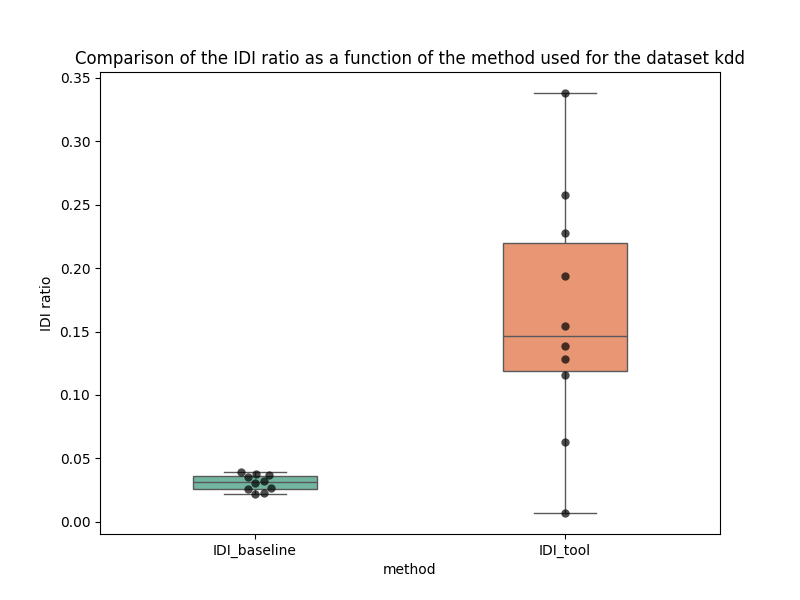
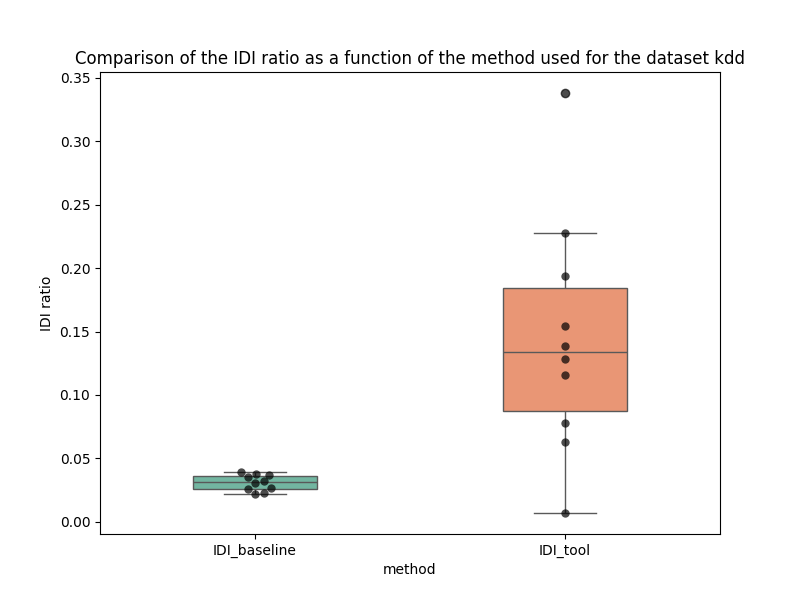
add final details

Changed region(s): [[0.625, 0.15, 0.8125, 0.51], [0.625, 0.54, 0.8125, 0.72]]

diff --git a/decision_tree.py b/decision_tree.py
@@ -7,54 +7,63 @@ from sklearn.model_selection import train_test_split
 from tensorflow import keras
 from sklearn.tree import DecisionTreeClassifier
 
-# Modify samples
-def modify_training_samples(row, X_test, non_sensitive_columns):
-    for col in non_sensitive_columns:
-        if col in X_test.columns:  # Ensure the column exists
-            min_val = X_test[col].min()
-            max_val = X_test[col].max()
-            perturbation = np.random.uniform(-0.1 * (max_val - min_val), 0.1 * (max_val - min_val))  # Small perturbation
-            row[col] = np.clip(row[col] + perturbation, min_val, max_val)
-    return row
 
-# Draw some random samples (must be higher than num_samples) and slightly modify them
+# Draw some random samples and predict them
 def draw_samples(model, X_test, sensitive_columns, non_sensitive_columns, num_samples, num_training):
-  # Prendre à peu près 1 quart du set
-  df_random = X_test.sample(n=int(num_training), replace=True) # num_samples*6
+  # Take num_training samples from X_text
+  df_random = X_test.sample(n=int(num_training), replace=True)
   df_random = df_random.reset_index(drop=True)
-  # Apply perturbation on non sensitive columns
-  # df_random = df_random.apply(lambda row: modify_training_samples(row, X_test, non_sensitive_columns), axis=1)
-  # Prédit tous les tests
+
+  # Predict them
   prediction = pd.DataFrame(model.predict(np.array(df_random)), index=df_random.index, columns=['prediction'])
   return df_random, prediction
 
+# Preselect the inputs that go through sensitive nodes
 def preselection(tree, X_test, sensitive_columns):
+    # Take decision path for each of the inputs
     decision_path = tree.decision_path(X_test)
 
+    # Extract which node is sensitive
     sensitive_indices = [X_test.columns.get_loc(col) for col in sensitive_columns]
-
     sensitive_nodes = np.where(np.isin(tree.tree_.feature, sensitive_indices))[0]
 
     # Find samples passing through these nodes
     selected_samples = pd.DataFrame(columns=X_test.columns)
-    for i in range(len(X_test)):  # Loop through samples
+    for i in range(len(X_test)): 
         path_nodes = decision_path.indices[decision_path.indptr[i]:decision_path.indptr[i+1]]
         sensible = [node for node in path_nodes if node in sensitive_nodes]
-        if sensible != []:# all(node in path_nodes for node in sensitive_nodes):
+        if sensible != []:
             selected_samples.loc[len(selected_samples)] = X_test.iloc[i]
 
     return selected_samples
 
+# Modify slightly the samples
+def modify_samples(row, X_test, non_sensitive_columns):
+    for col in non_sensitive_columns:
+        if col in X_test.columns:
+            min = X_test[col].min()
+            max = X_test[col].max()
+            modification = np.random.uniform(-0.1 * (max - min), 0.1 * (max - min))
+            row[col] = np.clip(row[col] + modification, min, max)
+    return row
+
+# Search for discriminatory pairs in the decision tree
 def find_random_discrimination(tree, X_test, sensitive_columns, non_sensitive_columns, num_samples):
-    sample = X_test.sample(n=num_samples, replace=True) # X_test.iloc[np.random.choice(len(X_test))]
+    # Sample some input
+    sample = X_test.sample(n=num_samples, replace=True)
 
-    sample = sample.apply(lambda row: modify_training_samples(row, X_test, non_sensitive_columns), axis=1)
+    # Slightly modify them
+    sample = sample.apply(lambda row: modify_samples(row, X_test, non_sensitive_columns), axis=1)
 
+    # Extract the decision path for each sample
     decision_path = tree.decision_path(sample)
 
+    # Needed information
     columns = X_test.columns
     df_path = pd.DataFrame(columns=['sample_a', 'sample_b'])
+
     for i in range(len(sample)):
+        # needed information
         sample_a = sample.iloc[i]
         borne = pd.DataFrame({
             'max' : [X_test[col].max() for col in sensitive_columns],
@@ -62,65 +71,68 @@ def find_random_discrimination(tree, X_test, sensitive_columns, non_sensitive_co
             }, index=sensitive_columns)
         node_indices = decision_path.indices[decision_path.indptr[i]:decision_path.indptr[i+1]]
 
+        # Extract sensitive nodes
         sensible_nodes = [(columns[tree.tree_.feature[node]], tree.tree_.threshold[node]) for node in node_indices if columns[tree.tree_.feature[node]] in sensitive_columns]
         
+        # Check if there is sensible nodes
         if sensible_nodes != []:
             for feature_name, threshold in sensible_nodes:
                 if sample_a[feature_name] <= threshold:
+                    # Pick a new value
                     new_value = random.uniform(threshold, borne.loc[feature_name, 'max'])
+
+                    # Change the value for the modified sample
                     sample_b = sample_a.copy()
                     sample_b[feature_name] = new_value
+
+                    # Predict the class of each sample thanks to the decision tree
                     dt = pd.concat([sample_a, sample_b], axis=1).T
                     pred = tree.predict(dt)
+
+                    # Register them if the classes are not the same
                     if pred[0] != pred[1]:
                         series = pd.Series({'sample_a':sample_a, 'sample_b':sample_b})
                         df_path = pd.concat([df_path, series.to_frame().T], ignore_index= True)
                     borne.loc[feature_name, 'max'] = threshold
                 else:
+                    # Pick a new value
                     new_value = random.uniform(threshold, borne.loc[feature_name, 'min'])
+
+                    # Change the value for the modified sample
                     sample_b = sample_a.copy()
                     sample_b[feature_name] = new_value
+
+                    # Predict the class of each sample thanks to the decision tree
                     dt = pd.concat([sample_a, sample_b], axis=1).T
                     pred = tree.predict(dt)
+
+                    # Register them if the classes are not the same
                     if pred[0] != pred[1]:
                         series = pd.Series({'sample_a':sample_a, 'sample_b':sample_b})
                         df_path = pd.concat([df_path, series.to_frame().T], ignore_index= True)
                     borne.loc[feature_name, 'min'] = threshold
     return df_path
-    
-def collect_sample(row):
-    return row['sample'].copy()
 
-def modify_sample(row):
-    sample = row['sample'].copy()
-    col = row['feature_name']
-    first_threshold, second_threshold = row['first_threshold'], row['second_threshold']
-    new_value = random.uniform(first_threshold, second_threshold)
-    sample[col] = new_value
-    return sample
 
 # Calculate the IDI ratio
 def calculate_idi_ratio_tool(model, X_test, sensitive_columns, non_sensitive_columns, num_samples=1000, threshold=0.05, num_training=8000):
     # Draw sample
     df_random, prediction = draw_samples(model, X_test, sensitive_columns, non_sensitive_columns, num_samples, num_training)
+    # Predict the class of each sample
     prediction_class = np.where((np.array(prediction))>=0.5, 1, 0)
 
+    # Show the percentage of predictions between 0.45 and 0.55
     pred = np.array(prediction['prediction'])
     mask = (pred > 0.45) & (pred < 0.55)
     print(f"The percentage of predictions between 0.45 and 0.55 is {sum(mask)/len(mask)}")
 
-    # decision tree training
+    # Decision tree training
     tree = DecisionTreeClassifier()
     tree.fit(df_random, prediction_class)
 
-    # is it dependant of sensible parameters
-    # Récupérer les indices des colonnes utilisées dans les nœuds
+    # Is it dependant of sensible parameters
     features_used = tree.tree_.feature
-
-    # Supprimer les valeurs -2 (indiquant les feuilles de l'arbre)
     features_used = features_used[features_used != -2]
-
-    # Obtenir les indices uniques des colonnes utilisées
     features_used = set(features_used)
 
     columns = X_test.columns
@@ -129,10 +141,10 @@ def calculate_idi_ratio_tool(model, X_test, sensitive_columns, non_sensitive_col
     print("The sensitive columns identified by the decision tree classifier : ")
     print(sensible_nodes)
 
-    if sensible_nodes == []: # if there is no disciminating space
+    if sensible_nodes == []: # if there is no disciminating nodes
         return 0
     else:
-        # extract paths
+        # Extract sample
         df_path = pd.DataFrame(columns=['sample_a', 'sample_b'])
 
         preselected_samples = preselection(tree, X_test, sensitive_columns)
@@ -147,7 +159,7 @@ def calculate_idi_ratio_tool(model, X_test, sensitive_columns, non_sensitive_col
 
         df_samples = df_path
 
-        # prediction
+        # Prediction for each sample of a pair
         array_for_prediction_a = np.stack(df_samples['sample_a'].values)
         prediction_a = model.predict(array_for_prediction_a)
 
@@ -166,30 +178,32 @@ def calculate_idi_ratio_tool(model, X_test, sensitive_columns, non_sensitive_col
 
         return number_discrimination/ try_number
 
-# 6. Main function
+# Main function
 def main():
-    # 1. Load dataset and model
-    dataset_name = 'adult'
-    file_path = f'dataset/processed_{dataset_name}.csv' # 'model/processed_kdd_cleaned.csv'  # Dataset path
-    model_path = f'DNN/model_processed_{dataset_name}.h5'  # Model path
+    # Load dataset and model
+    dataset_name = 'kdd'
+    file_path = f'dataset/processed_{dataset_name}.csv' 
+    model_path = f'DNN/model_processed_{dataset_name}.h5' 
     df = pd.read_csv(file_path)
-    # take information on dataset
+
+    # Take information on dataset
     info_dataset = pd.read_csv('info_datasets.csv')
     info_dataset['sensitive_attributes'] = (info_dataset['sensitive_attributes']).apply(ast.literal_eval)
     dataset = info_dataset.loc[info_dataset['name'] == dataset_name]
-    # Splitting the dataset into features and target
-    target_column = (dataset['target_label']).iloc[0] # 'income'  # Modify the target column name if necessary
-    X = df.drop(columns=[target_column])  # Features (drop the target column)
-    y = df[target_column]  # Target variable
+    
+    # Splitting the dataset into attributes and class
+    target_column = (dataset['target_label']).iloc[0] 
+    X = df.drop(columns=[target_column])
+    y = df[target_column] 
     X_train, X_test, y_train, y_test = train_test_split(X, y, test_size=0.3, random_state=42)
-    X_test = X_test.astype('float64')
-    model = keras.models.load_model(model_path)
+    X_test = X_test.astype('float64') # change the type of the columns
+    model = keras.models.load_model(model_path) # extract the model
 
-    # 2. Define sensitive and non-sensitive columns
+    # Define sensitive and non-sensitive columns
     sensitive_columns = np.array((dataset['sensitive_attributes']).iloc[0])  # Example sensitive column(s)
     non_sensitive_columns = [col for col in X_test.columns if col not in sensitive_columns]
 
-    # 3. Calculate and print the Individual Discrimination Instance Ratio
+    # Calculate and print the IDI Ratio and runtime
     start = time.perf_counter()
     IDI_ratio = calculate_idi_ratio_tool(model, X_test, sensitive_columns, non_sensitive_columns, num_samples=1000, num_training=8000)
     end = time.perf_counter()

diff --git a/results/performance_comparison.py b/results/performance_comparison.py
@@ -16,13 +16,14 @@ from decision_tree import calculate_idi_ratio_tool
 
 
 def load_and_preprocess_data(row):
-    file_path = '../dataset/processed_' + row['name'] + '.csv' # 'model/processed_kdd_cleaned.csv'  # Dataset path
-    model_path = '../DNN/model_processed_'+ row['name'] + '.h5'  # Model path
+    file_path = '../dataset/processed_' + row['name'] + '.csv' 
+    model_path = '../DNN/model_processed_'+ row['name'] + '.h5' 
     df = pd.read_csv(file_path)
-    # Splitting the dataset into features and target
-    target_column = row['target_label']# 'income'  # Modify the target column name if necessary
-    X = df.drop(columns=[target_column])  # Features (drop the target column)
-    y = df[target_column]  # Target variable
+
+    # Splitting the dataset into attributes and class
+    target_column = row['target_label']
+    X = df.drop(columns=[target_column])
+    y = df[target_column]
     X_train, X_test, y_train, y_test = train_test_split(X, y, test_size=0.3, random_state=42)
 
     X_test = X_test.astype('float64')
